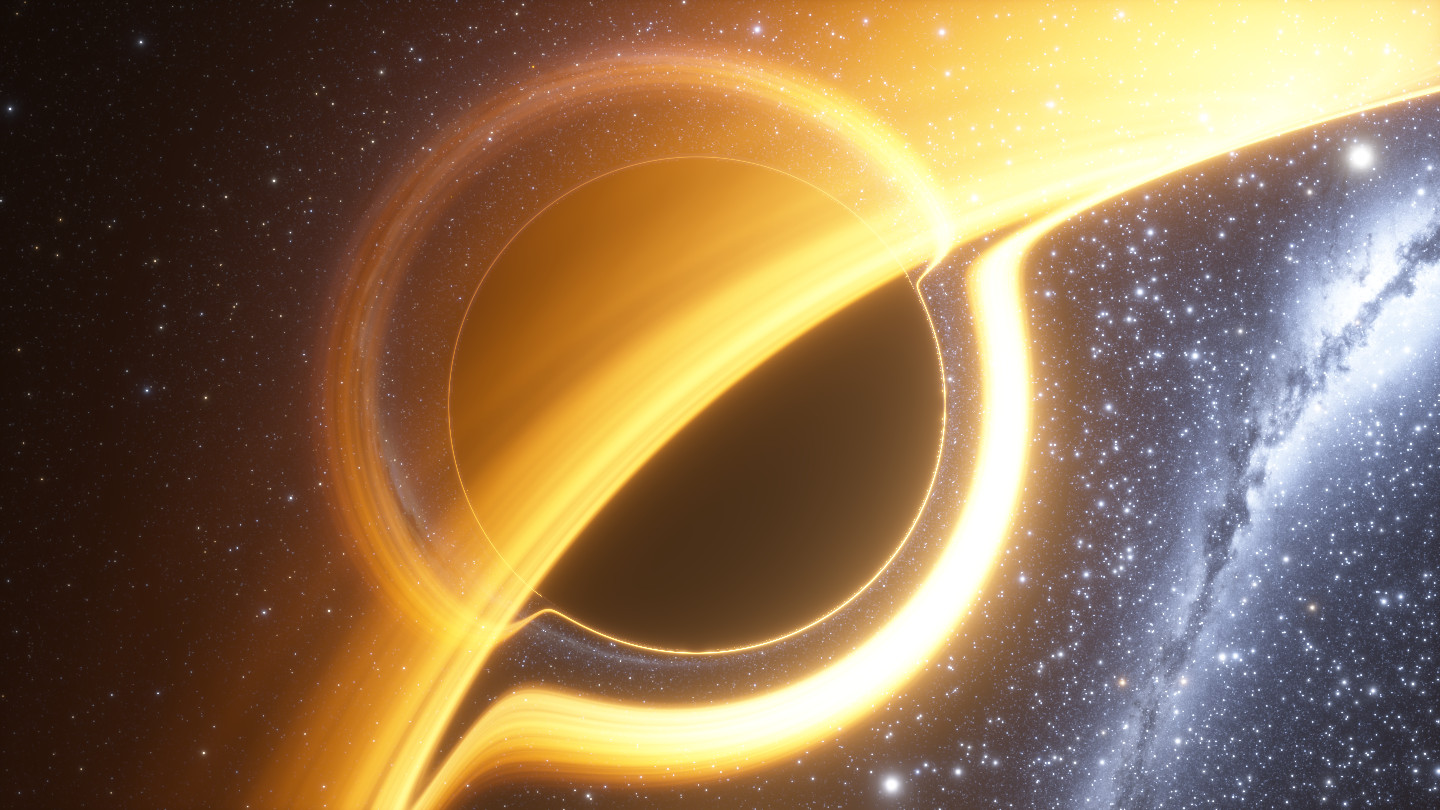
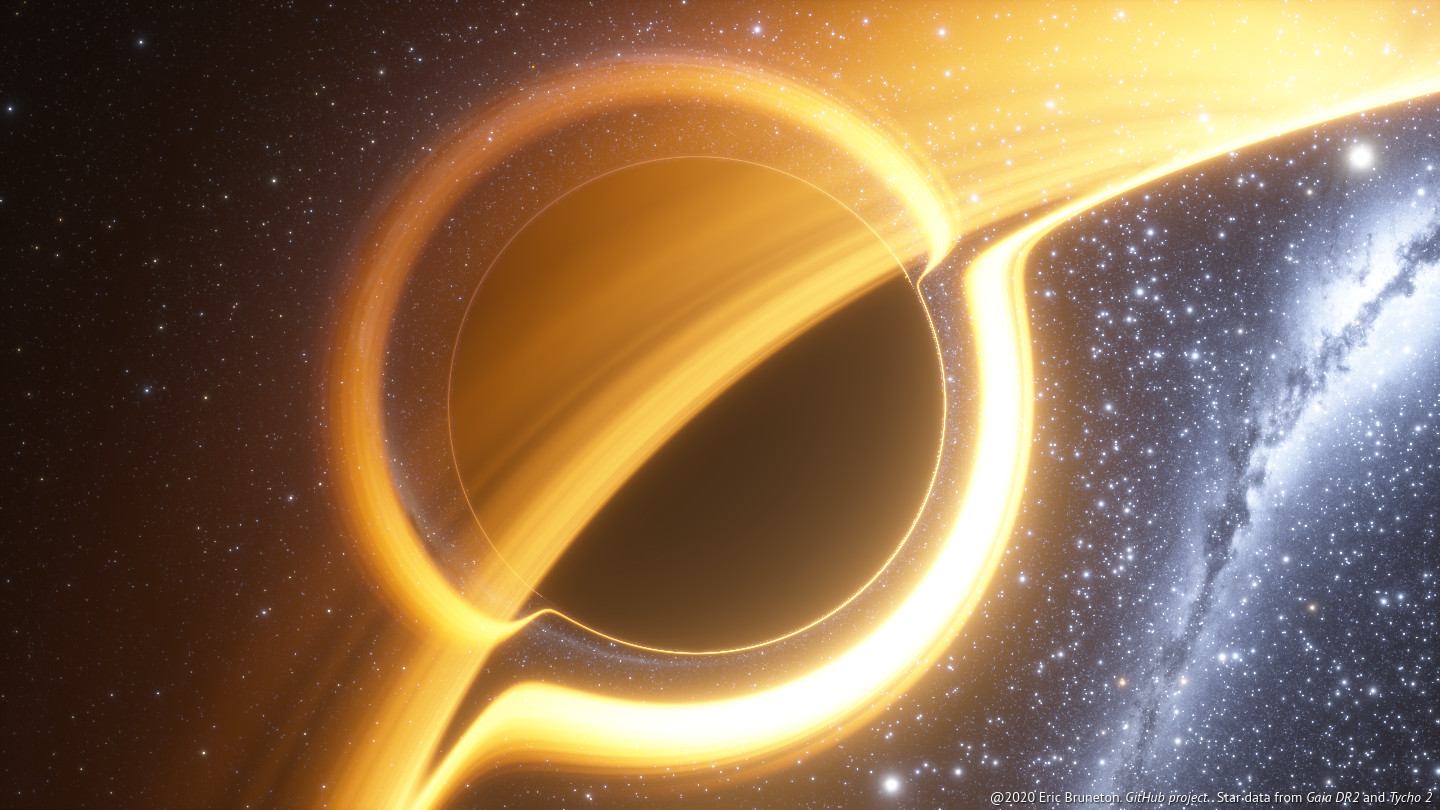
Fix missing copyright in images.

diff --git a/index.html b/index.html
@@ -33,7 +33,7 @@
 <img src="images/black_hole_near_orion.jpg" width="100%">
 </a>
 <p>A black hole near <a href="https://fr.wikipedia.org/wiki/Orion_(constellation)">Orion</a>, with 2 opposite images of a star around it [<a href="demo/demo.html?or=913&oi=1101&cy=34922&os=352&sfy=693&sfp=1540&sfr=1474&ce=565&bhm=401&cp=9754&dd=393&do=0&r=33.46792681553018&dr=0.00021588733170925666&phi=5.3331338829750825&dt=401
-"a>].
+">demo</a>].
 </center>
 
 <h2>Introduction</h2>
